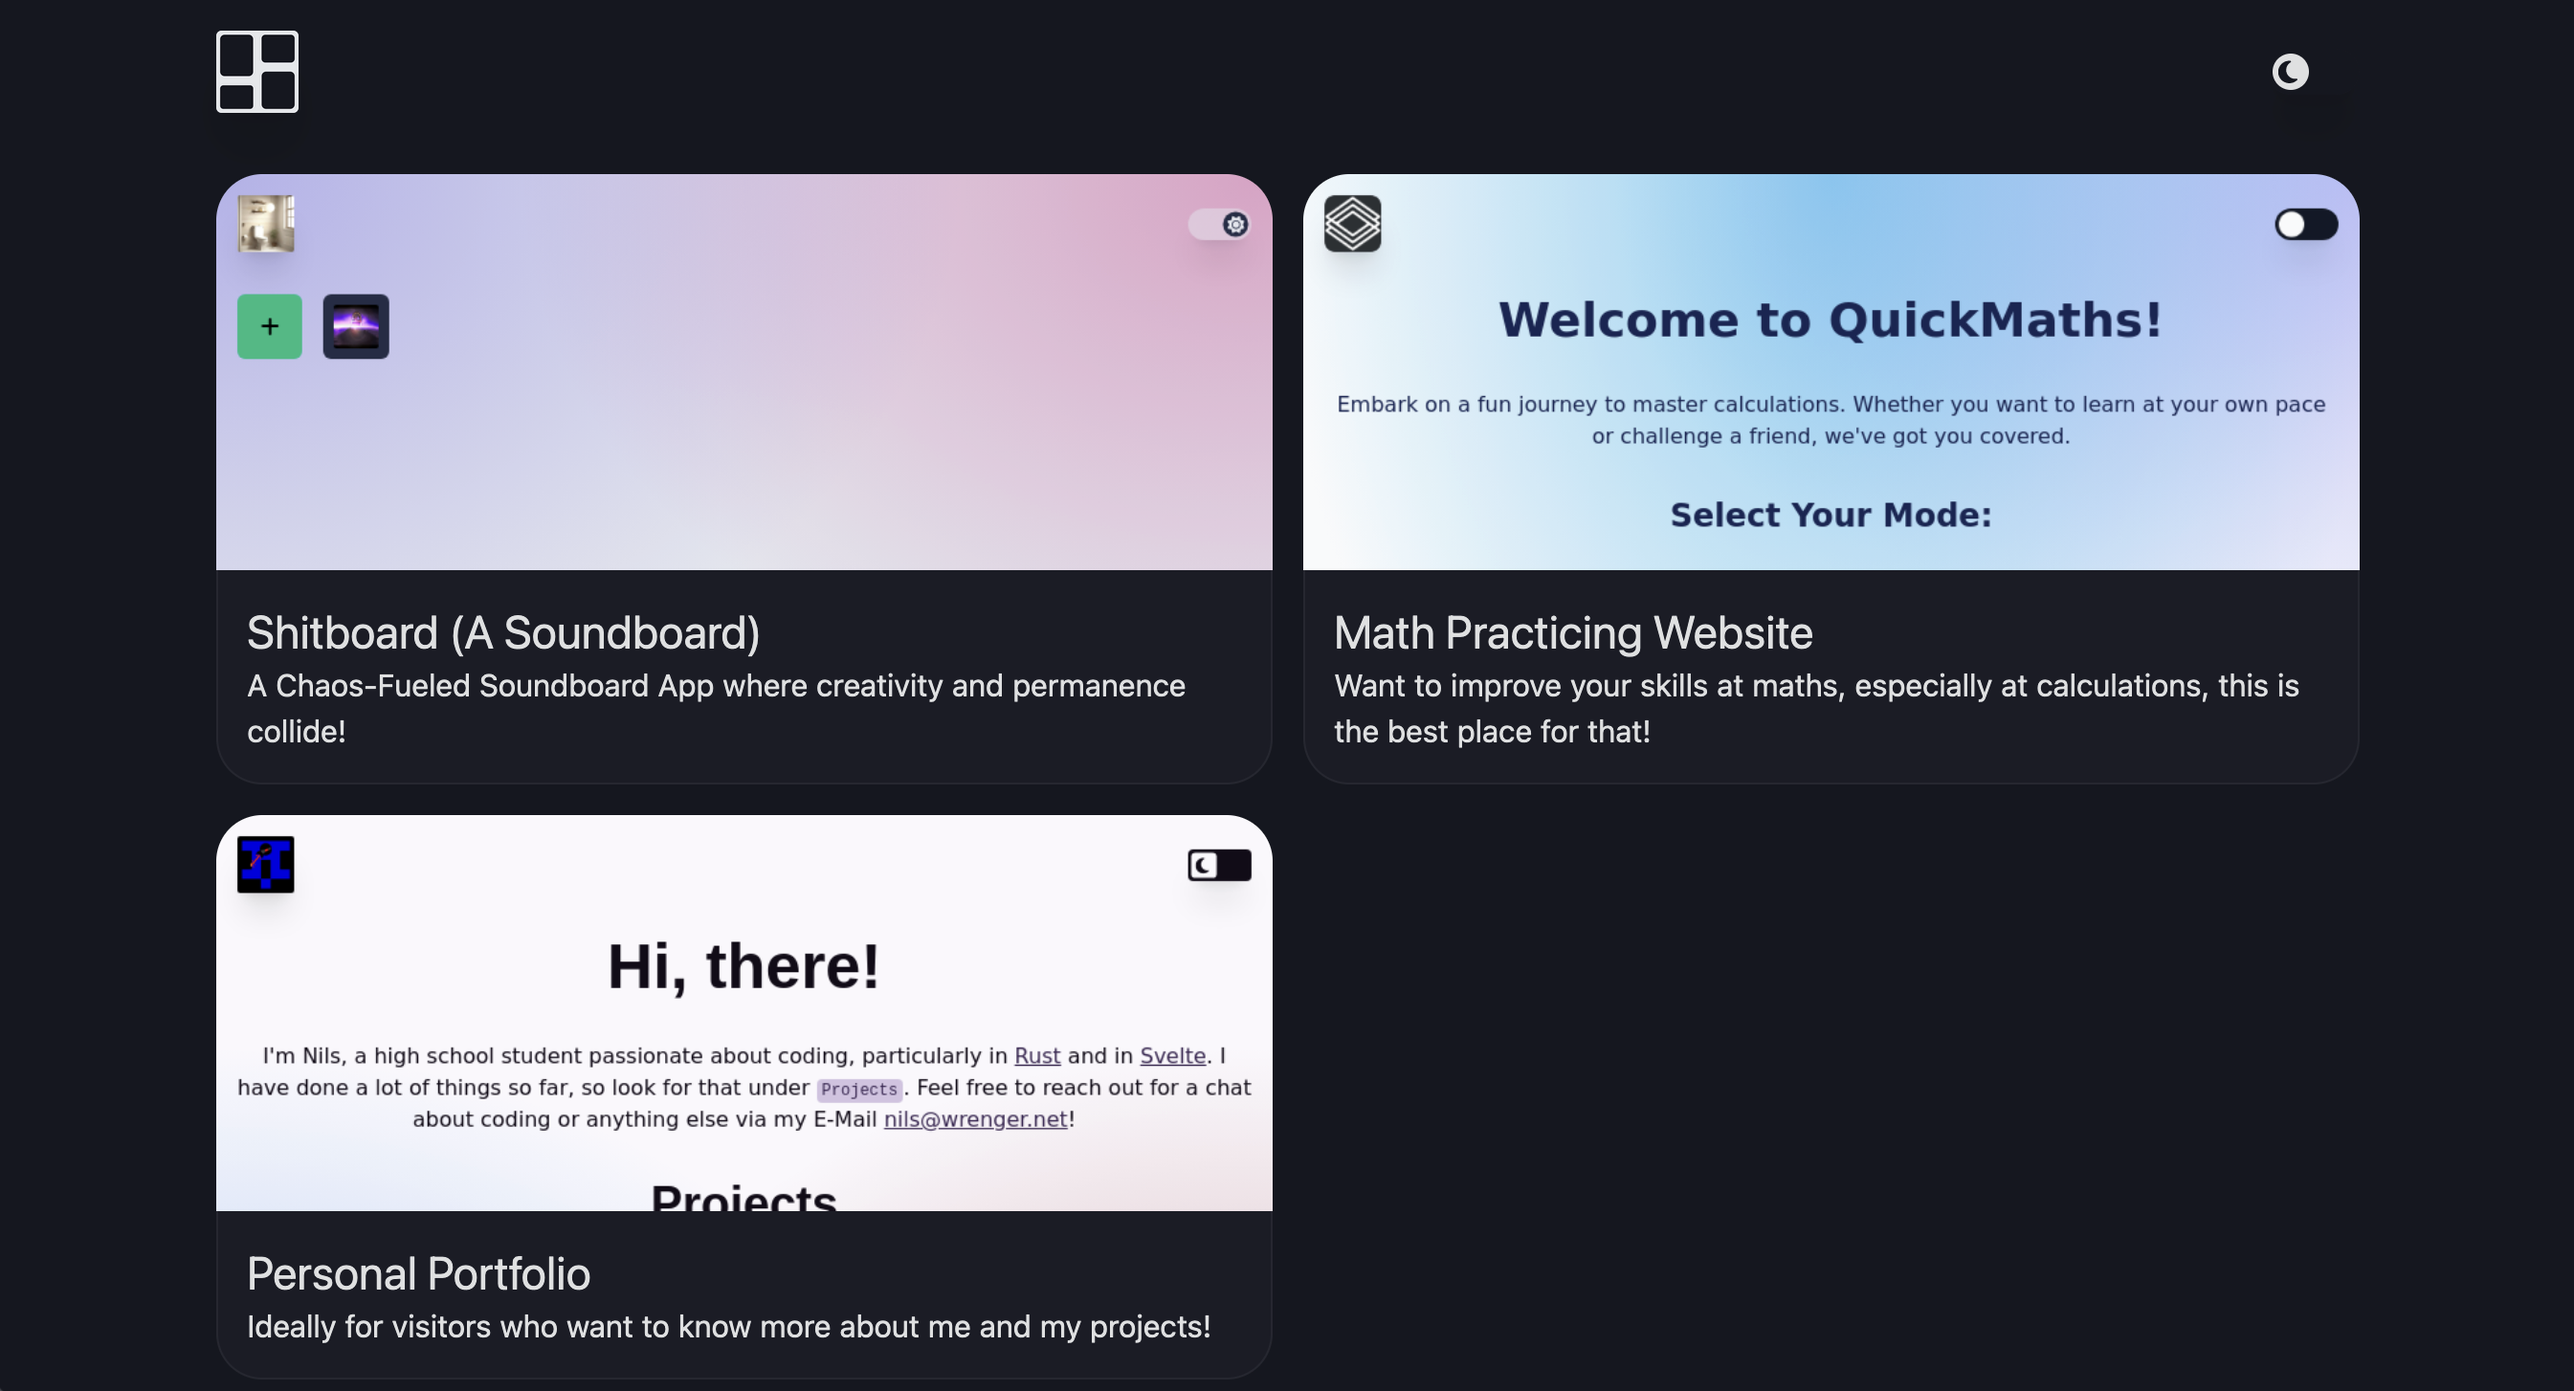
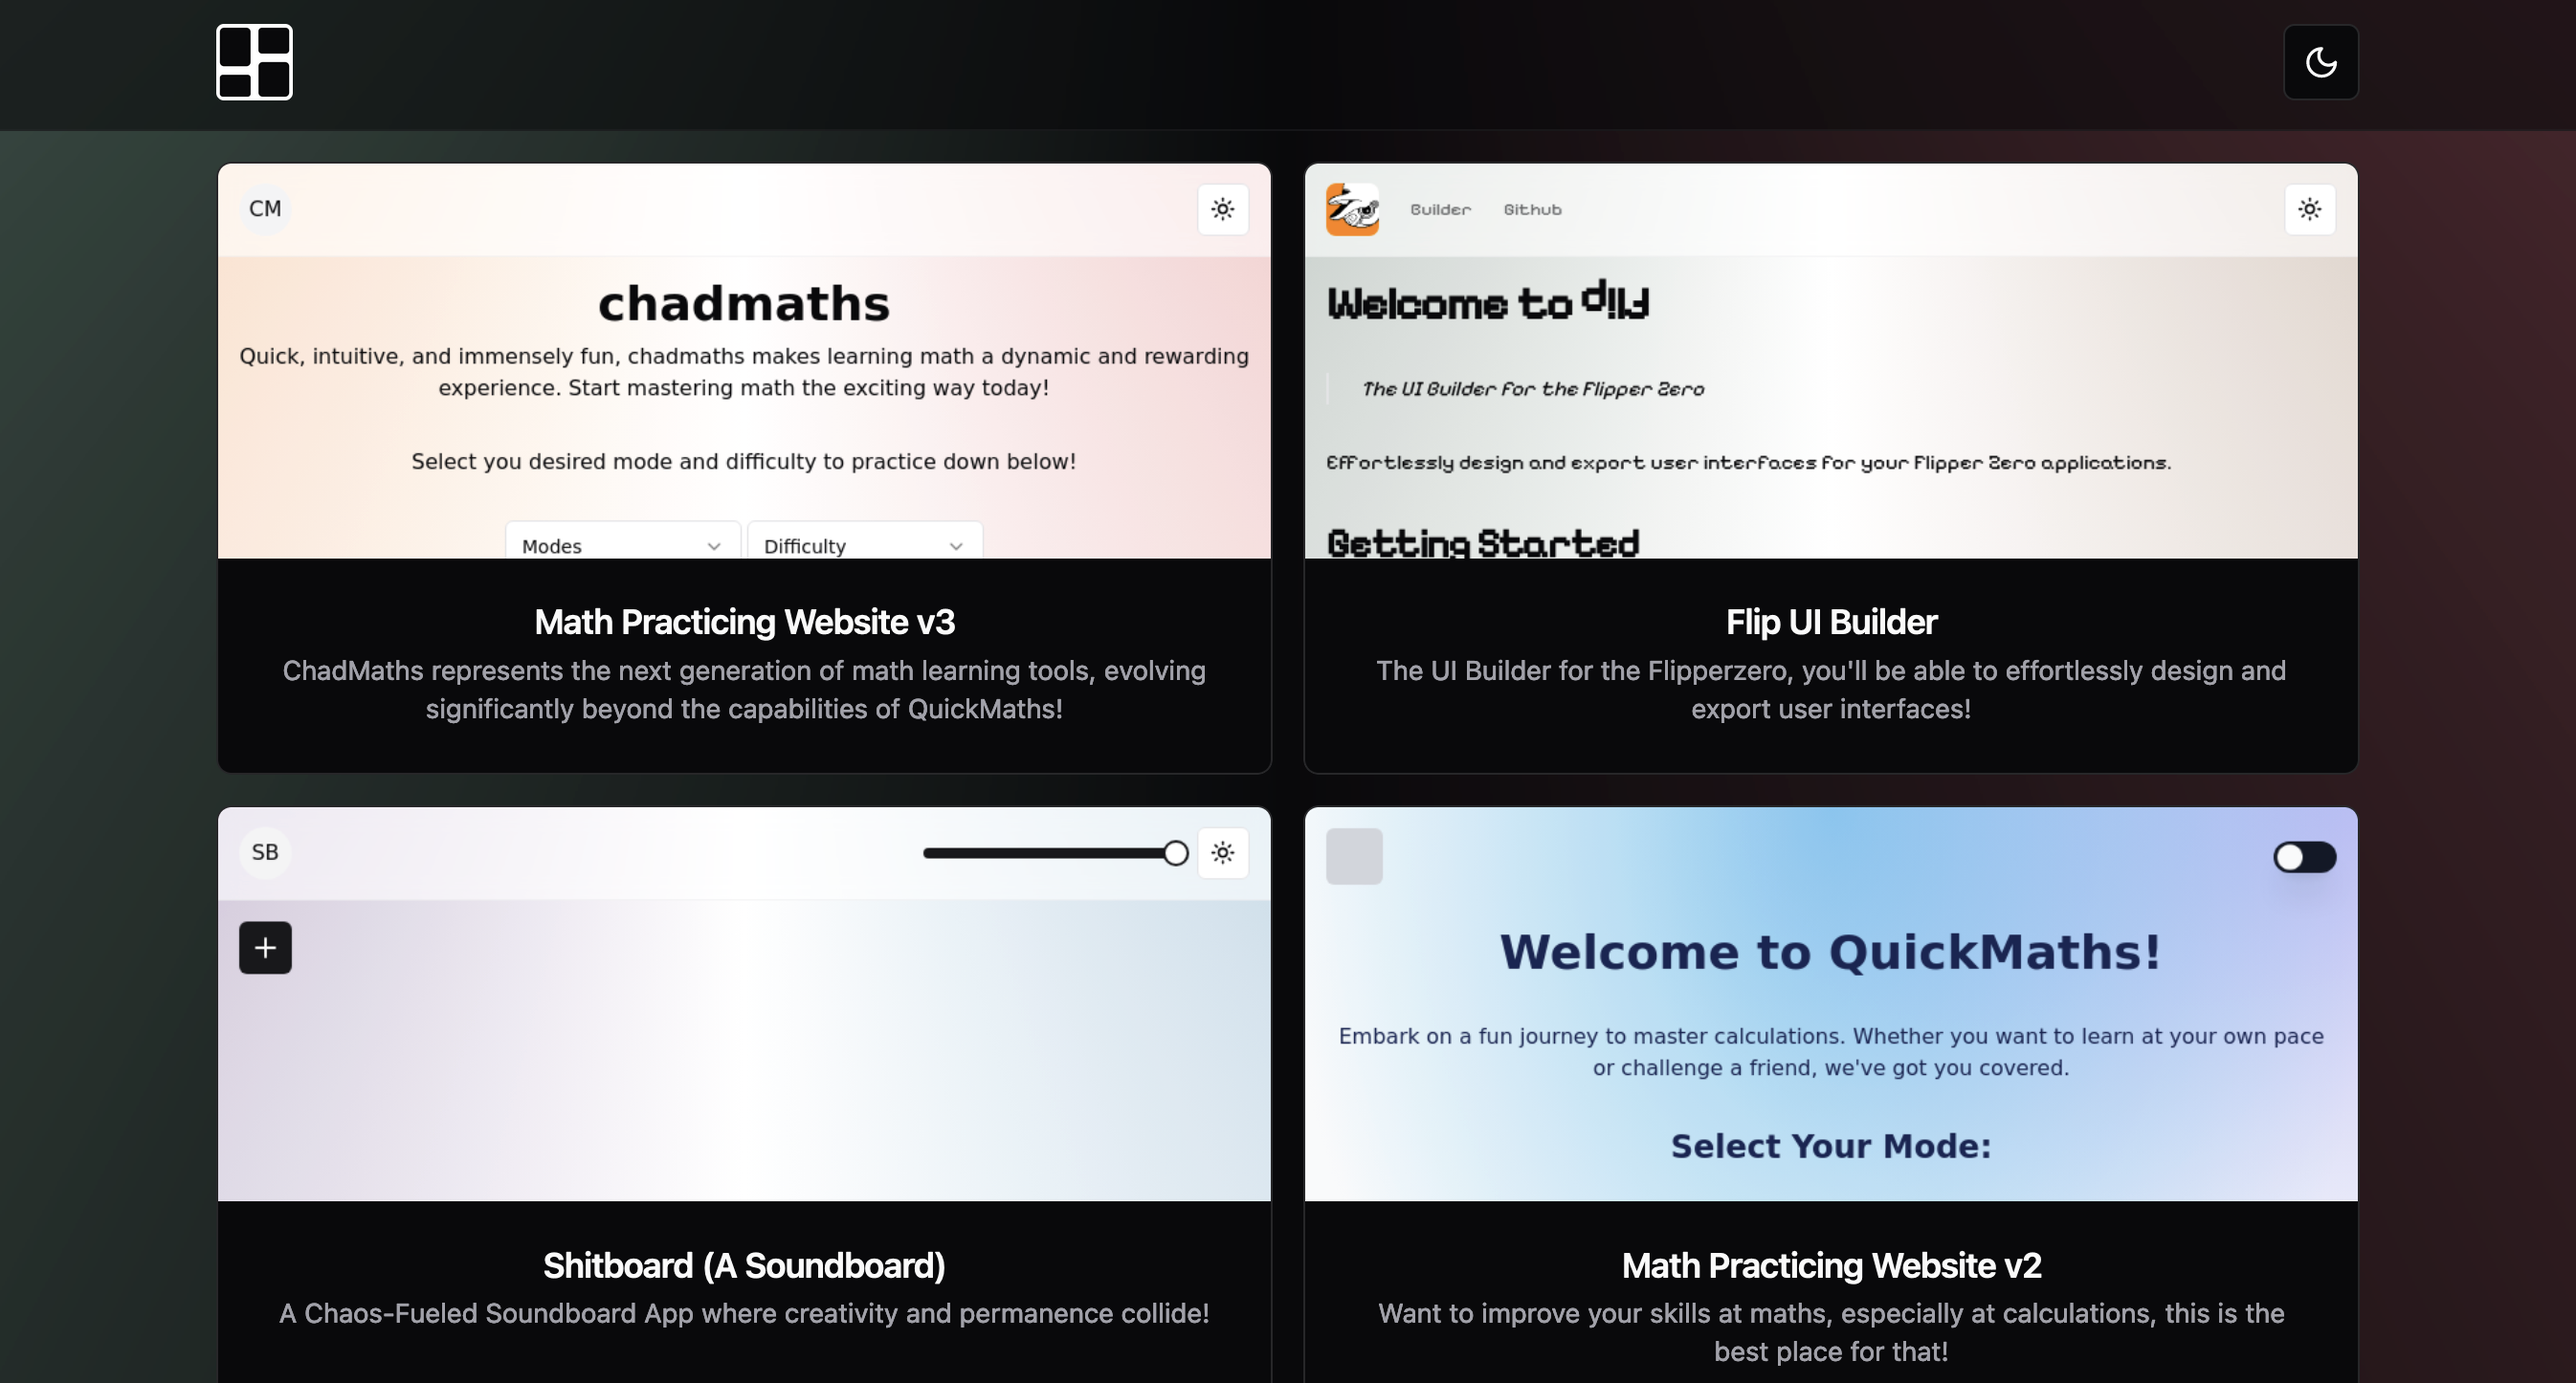
:sparkles: Added and Update Projects

diff --git a/src/lib/index.ts b/src/lib/index.ts
@@ -1,5 +1,13 @@
 export const projects = [
 	{
+		title: 'chadmaths',
+		summary: 'Math Practicing for the real Chads!',
+		picture: 'chadmaths.png',
+		description:
+			'This project is the advanced successor to <code class="code">QuickMaths</code>, designed for the real math <code class="code">CHADS</code>. It extends the original capabilities beyond Mental Calculus to include Graphs, Analysis, and Geometry. Additionally, the user interface has been significantly improved, removing the life system and incorporating more intuitive and user-friendly elements.',
+		link: 'https://chadmaths.nwrenger.dev/'
+	},
+	{
 		title: 'console-utils-rs',
 		summary: 'CLI Input Library for Rust',
 		picture: 'console-utils.png',
@@ -54,6 +62,14 @@ export const projects = [
 		description:
 			'This is a very simple Battlesnake agent, a bot designed to play competitive snake against other bots. Its sole mission is to seek food and avoid killing itself when it gets too long. The results of this strategy are displayed in the picture above!',
 		link: 'https://github.com/nwrenger/hadar'
+	},
+	{
+		title: 'light-magic',
+		summary: 'A lightweight and easy-to-use implementation of an in-memory database',
+		picture: 'light-magic.png',
+		description:
+			'A powerful and user-friendly in-memory database crate that leverages Rust\'s standard data types, such as <code class="code">BTreeMap</code>, and the macro system for generating data types, interactions, and data operations. It features efficient <code class="code">search</code> and <code class="code">join!</code> functions for seamless data management. Give it a try and experience the simplicity and performance of this innovative database solution!',
+		link: 'https://crates.io/crates/light-magic'
 	},
 	{
 		title: 'omega',
